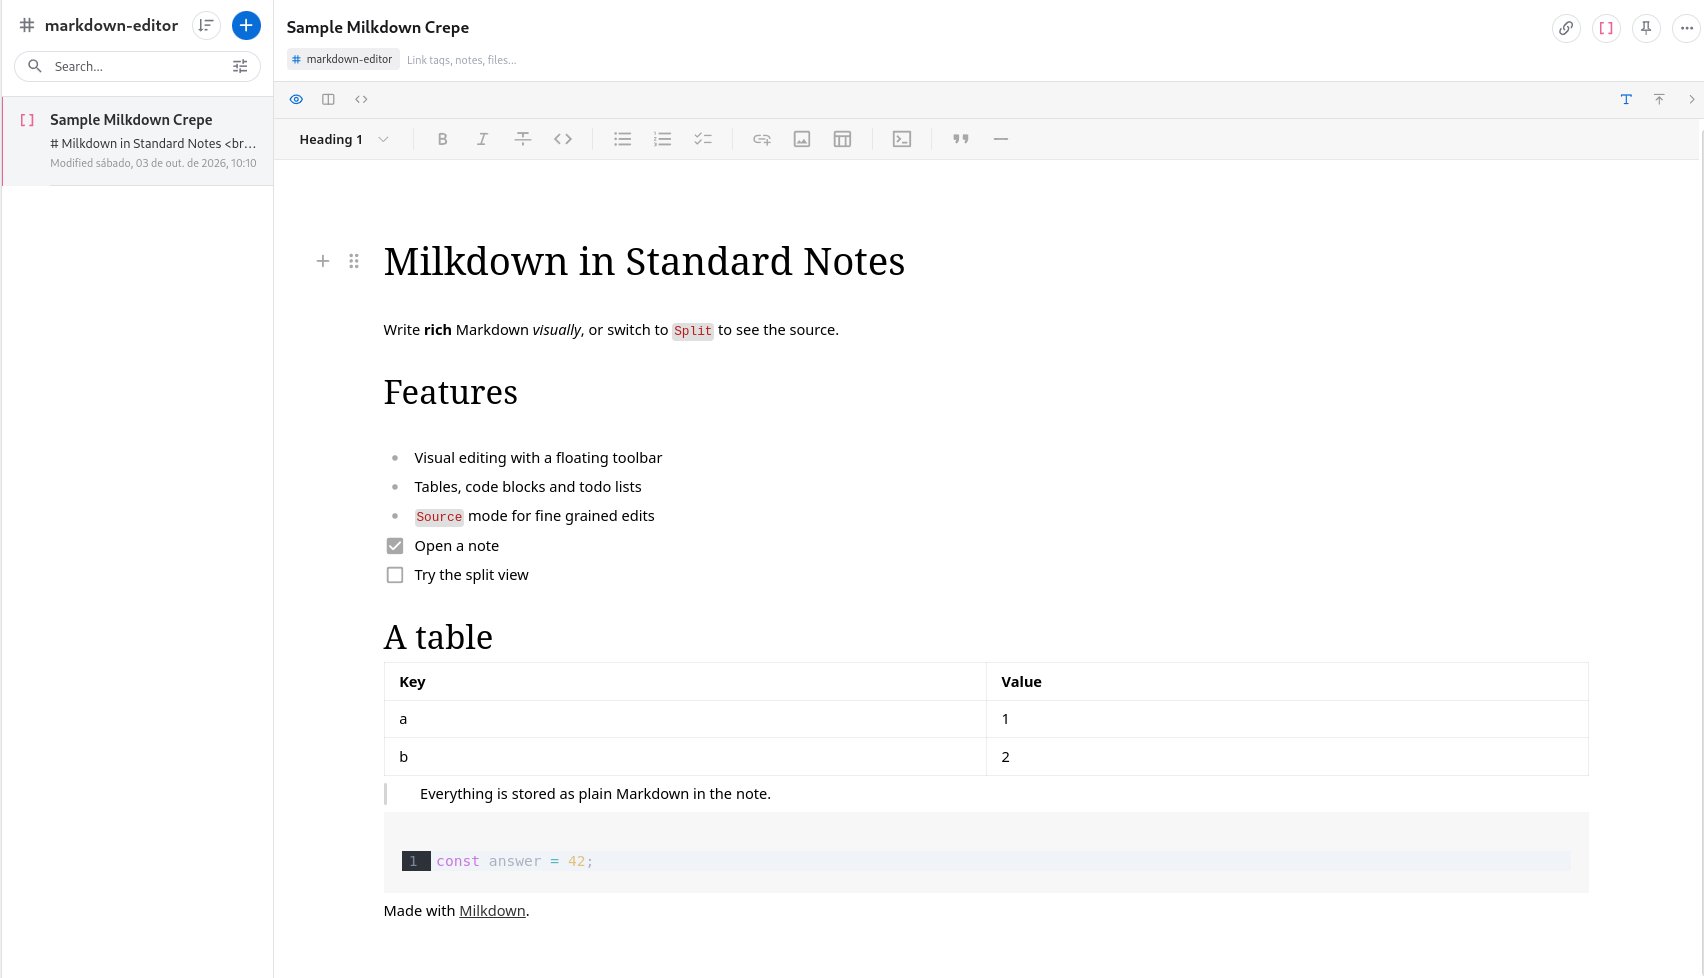
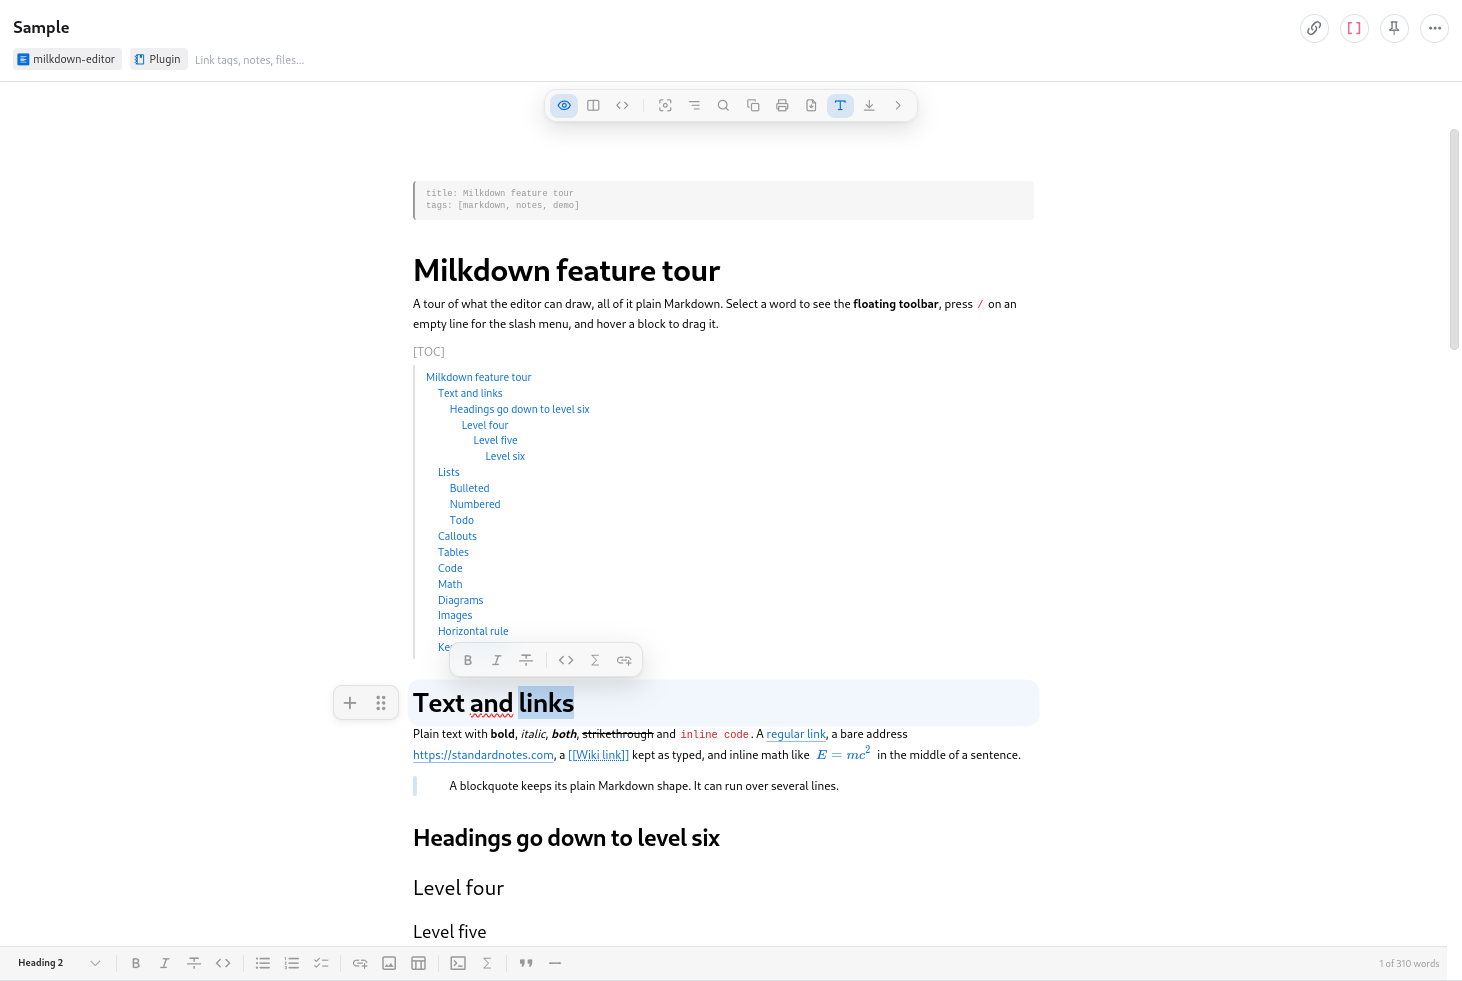
docs(readme): new screenshots and the focus mode
The screenshots show the 0.7 look with the new sample note: the visual
mode, the slash menu, the split mode and the math and diagrams. The
README lists the focus mode, the floating icon bar and the new sample,
and notes that a horizontal rule is rewritten as *** on the first edit.

diff --git a/README.md b/README.md
@@ -18,7 +18,8 @@ plugin only changes how you edit them.
    source: headings, lists, todo lists, tables, links, images, blockquotes
    and code blocks with syntax highlighting
 2. A floating toolbar on the selection, a `/` slash menu and drag handles
-   to add and move blocks
+   to add and move blocks. A focus mode button in the icon bar dims every
+   block but the one with the cursor
 3. Math with KaTeX: `$inline$` formulas and `$$` blocks
 4. Diagrams: ```` ```mermaid ```` code blocks show a live preview of the diagram, while the note keeps its source; the diagrams follow a change of the app theme without reopening the note
 5. Images uploaded, pasted or dropped are embedded in the note; large ones
@@ -32,15 +33,17 @@ plugin only changes how you edit them.
 9. Find and replace (`Ctrl/Cmd+F` or the search button), with highlighted
    matches and a `2/7` count; source mode uses CodeMirror's own search
 10. An outline of the note's headings in a side panel, to jump around long notes; headings inside quotes and lists are listed too
-11. The icon bar itself folds away with the `>` button at its right end,
-    leaving only a small `<` in the corner to bring it back. Layout choices
+11. The icon bar floats at the top, centered, and folds away with the `>`
+    button at its right end, leaving only a small `<` in the corner to
+    bring it back. Layout choices
     are saved with the editor in your Standard Notes account
 12. Opening a note never rewrites it: nothing is saved until you edit
 13. Undo never reaches into the previously opened note
 14. Works with the Standard Notes web, desktop and mobile apps; follows
     the theme selected in the app. On narrow screens the split view stacks
-15. A new empty note shows an `Add sample` button that seeds it with
-    example Markdown
+15. A new empty note shows an `Add sample` button that seeds it with a tour
+    of what the editor can draw: front matter, a table of contents, lists
+    and todos, the five alerts, a table, code, math, diagrams and an image
 16. If the editor ever fails to render, the raw note text stays available
     and editable in a plain text area, and edits are still saved
 
@@ -51,10 +54,18 @@ only the note:
 
 ![Clean interface with the formatting bar at the bottom](.github/screenshots/milkdown-clean.png)
 
-The `/` slash menu on a new note, for adding lists, images, code blocks
-and tables:
+The `/` slash menu, for adding lists, images, code blocks, tables, math
+and a table of contents:
 
-![Slash menu on a new note](.github/screenshots/milkdown-slash-menu.png)
+![Slash menu](.github/screenshots/milkdown-slash-menu.png)
+
+The Split mode, with the Markdown source next to the visual editor:
+
+![Split mode with the Markdown source next to the visual editor](.github/screenshots/milkdown-split.png)
+
+Math and Mermaid diagrams, drawn live while the note keeps their source:
+
+![Math and Mermaid diagrams](.github/screenshots/milkdown-math-diagrams.png)
 
 ## Installation
 
@@ -107,6 +118,7 @@ graph LR
   - reference links become inline links and the `[1]: url` definition goes away
   - a line break made of two trailing spaces becomes a backslash
   - setext headings (`Title` over `=====`) become `# Title`
+  - a horizontal rule `---` becomes `***`
   - tables are padded with spaces and their alignment row is rewritten
   - a stray `*` is escaped (`5\*3`) and a bare URL gets angle brackets (`<https://...>`)
   - block HTML gets a blank line before its closing tag
